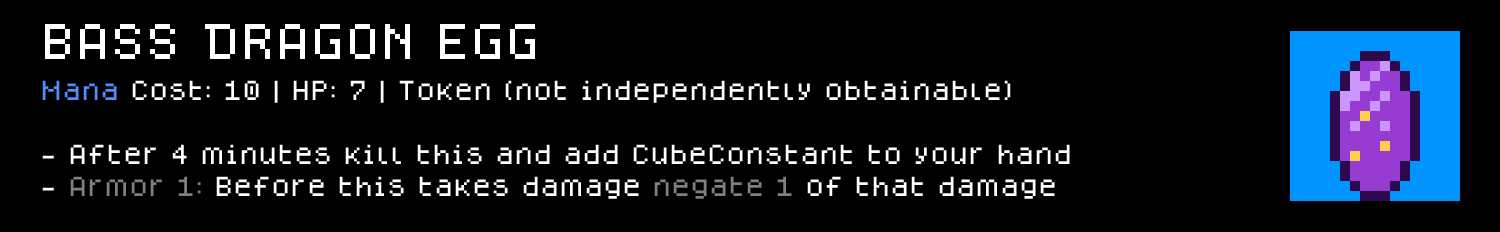
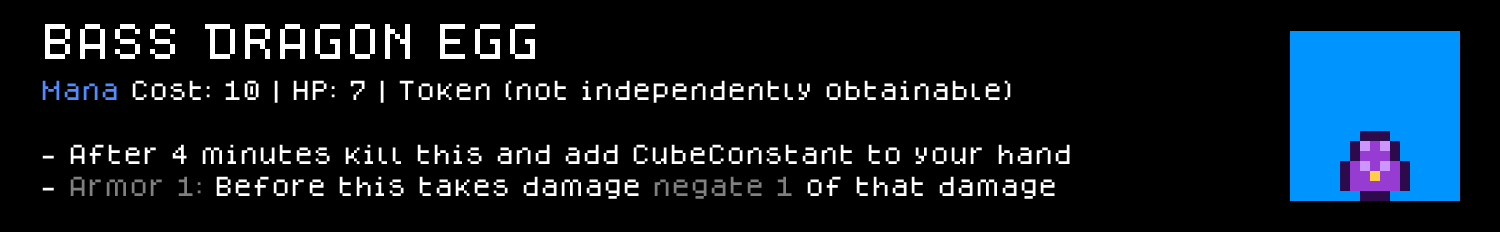
Egg images adjustments

Changed region(s): [[0.8893, 0.2112, 0.9507, 0.8448]]

diff --git a/.claude/skills/cube-chaos-sprite-art/SKILL.md b/.claude/skills/cube-chaos-sprite-art/SKILL.md
@@ -40,6 +40,24 @@ A non-flying/non-hovering cube's art must touch the very last pixel row of its 1
 
 **Default rule, not an ironclad one: a CUBE icon is a whole body, not a bust/portrait, unless the user asks for a bust.** A `CUBE:` is a unit that moves around the board in play, so its icon defaults to legs/a full silhouette reaching the bottom row — a head-and-shoulders portrait (the norm for a `PERK:` icon, which is static UI chrome) reads as visibly wrong once that same tile is actually walking across tiles in a real match, *if nothing else was requested*. Real incident, the Cubehammer40k mod: given a user-supplied reference image that happened to be a forward-facing bust (head + shoulder pauldrons, no legs), an early pass copied that composition directly onto 10 Space Marine `CUBE:` icons; the user hadn't asked for a bust specifically, just "make it look more like this image," so the full-body convention should have taken precedence and the reference used for style/color/detail cues only (helmet visor slit, chest crest, armor color) layered onto a full standing figure. Corrected accordingly. **This is the default to reach for absent other direction — if the user explicitly wants bust-style CUBE icons (or any other departure from flush-bottom full bodies), that's their call to make and should be followed, not overridden by this convention.**
 
+## Dragon-egg CUBE icon: fixed 7×7 rounded-diamond mask, not a tall oval
+
+Every base-game `<Theme>_Dragon_Egg` cube (`Characters/Sprites/2TokenCubes.c.png`) shares **one identical silhouette mask**, only the fill colors differ — confirmed byte-identical across `Icy_Dragon_Egg`, `Devouring_Dragon_Egg`, and `Holy_Dragon_Egg` (pixel-dumped independently, 3-for-3 agreement). It is **7 rows tall**, bottom-flush against the tile's last usable row, horizontally centered on the tile's middle column, with a per-row width sequence of **3, 5, 5, 7, 7, 7, 3** (a rounded diamond/hexagon, not an ellipse) — i.e. roughly as wide as it is tall, clearly compact and round rather than elongated. Concretely, on a 17×17 tile with the shape's bottom row on tile-row 16 and center on tile-col 8:
+
+```
+row10 (w3, cols7-9):   ...XXX...
+row11 (w5, cols6-10):  ..XXXXX..
+row12 (w5, cols6-10):  ..XXXXX..
+row13 (w7, cols5-11):  .XXXXXXX.
+row14 (w7, cols5-11):  .XXXXXXX.
+row15 (w7, cols5-11):  .XXXXXXX.
+row16 (w3, cols7-9):   ...XXX...
+```
+
+**This repo's own three dragon-egg cubes (`Hell_Dragon_Egg`/`War_Dragon_Egg`/`Bass_Dragon_Egg`, one per mod) originally shipped a 9-wide × 15-tall elongated-oval mask instead** (width sequence 3,5,7,7,9,9,9,9,9,9,9,7,7,5,3, spanning nearly the tile's full height) — visibly "too oval" compared to the base game's compact egg, caught by the user comparing side-by-side (2026-07-25). Fixed by redrawing all three to the mask above (rows 10-16, cols 4-12), keeping each mod's existing 4-color outline/base/highlight/accent palette unchanged — only the shape moved, not the colors. If a mod ever adds a new dragon-egg cube (see `cube-chaos-orchestrator`'s `content-dragon-line` workflow), reuse this exact mask rather than freehanding a new egg silhouette.
+
+**The Baby and Adult stages have no equivalent shared mask — checked and ruled out (2026-07-25).** Bounding-boxed all 21 real `Baby_<Theme>_Dragon`/`<Theme>_Dragon` pairs in `2TokenCubes.c.png` (Holy, Anger, Magic, Iron, Explosive, Invasive, Stone, Shadow, Elemental, Plant, Crystal, Chaos, Temporal, Undead, Devouring, Icy, Moil, Programmed, Fungus, Robot, Ancient): widths, heights, and color counts vary widely and unsystematically (baby width 7-15px/height 6-15px/2-9 colors; adult width 11-15px/height 12-15px/1-50 colors) — each theme's baby/adult is genuinely unique freeform creature art, not a reused silhouette. The egg is the one stage that's a shared generic-object mask; babies and adults are meant to look like *that theme's* distinct creature. The only soft convention observed (not a hard rule): most are bottom-flush at tile row 15, matching the general ground-unit convention above — the two exceptions (`Icy`'s baby and adult, maxy 11/13) are drawn visibly hovering, consistent with `Icy_Dragon`/`Baby_Icy_Dragon` both having `Flying`. This repo's own three babies/adults already sit inside that same envelope (width 12-15px, height 15px, bottom-flush) — no shape fix needed for them, unlike the egg.
+
 ## Border pattern library — every `PERK:` category has its own fixed border, generate it from scratch
 
 Every 27×27 PERK sheet in the base game (and this mod) is genuinely rendered with a border tied to the perk's category — not just CLASSSPECIES. All of them share one universal outer ring (`RGB(255,0,220)` magenta, row/col 0, the same non-rendered-looking-but-actually-rendered guide color everywhere), then diverge inward. **None of this needs to be re-extracted from a reference file** — every pattern below is fully determined by fixed pixel positions plus at most one or two named colors, so it can be generated purely from code once you know which category you're drawing for. Re-verifying against a real file is still worth doing once per *new* category (see the empirical method at the end of this section), but for the categories already catalogued here, generate directly from the recipes below.
